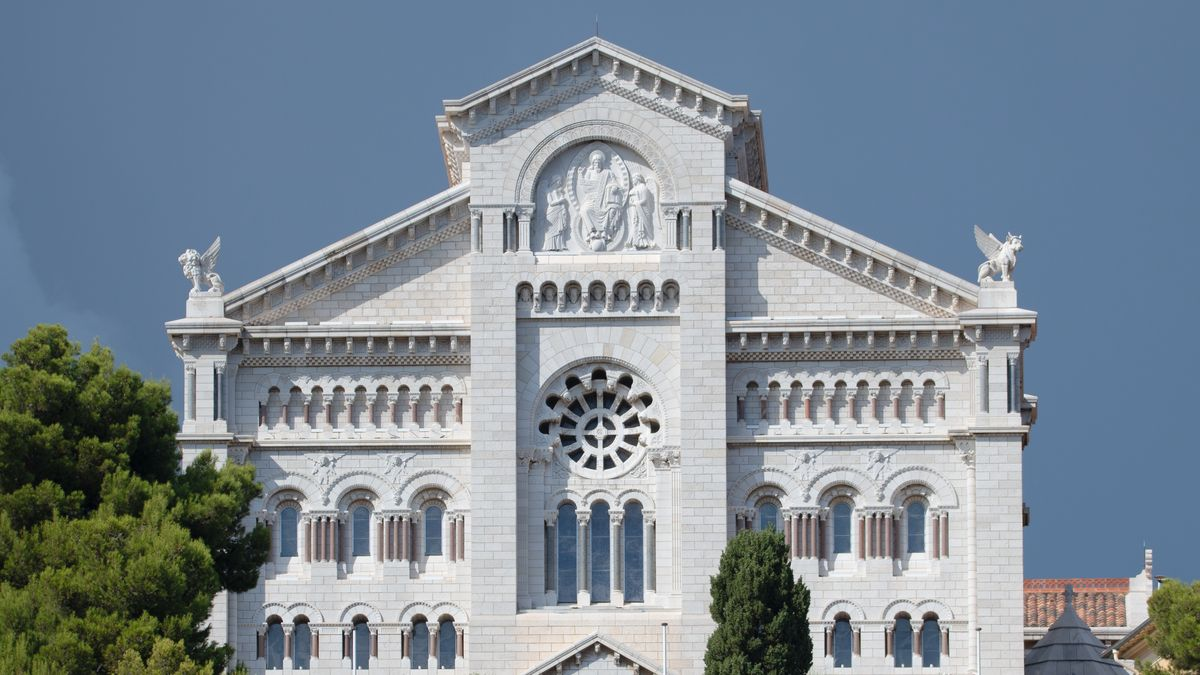
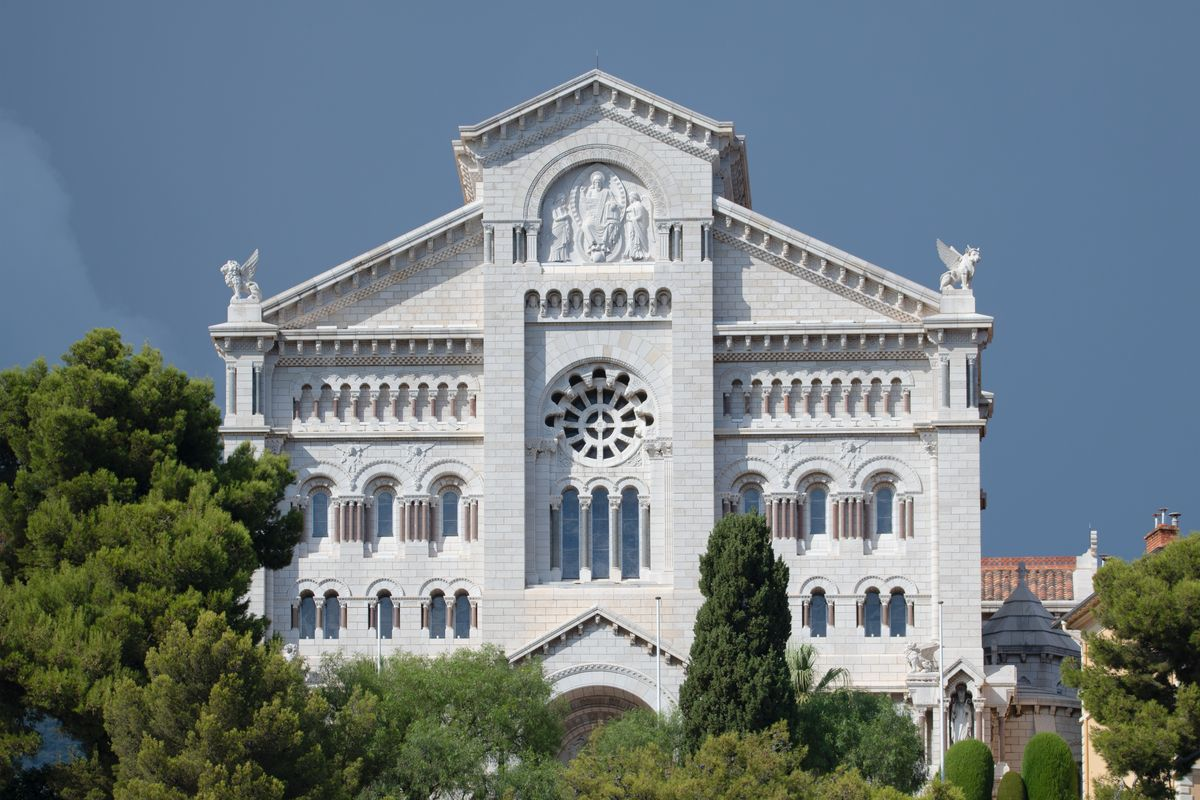
Add files via upload

diff --git a/extras.js b/extras.js
@@ -569,7 +569,7 @@
         "<h1>" + esc(t("Christmas in Monaco")) + '</h1><p class="lede-dark">' + esc(t("The Christmas village, the ice rink, the lights and New Year’s Eve, and the easy way between them.")) + "</p>" +
         (window.L && window.MMEMap ? '<div class="yt-map xm-map" id="xm-map" role="application" aria-label="' + esc(t("Map")) + '"></div>' : "") +
         '<ol class="wo-list xm-list">' + XMAS.map(function (x, i) {
-          return '<li class="wo-ev" data-xm="' + i + '">' + (x.photo ? '<img class="way-photo" src="' + x.photo + '" width="1200" height="675" loading="lazy" alt="' + esc(t("Monaco Cathedral, on the Rock")) + '">' : "") + '<span class="ev-date">' + esc(t(x.when)) + '</span><strong><span class="yt-num xm-num">' + (i + 1) + "</span>" + esc(t(x.name)) + "</strong>" +
+          return '<li class="wo-ev" data-xm="' + i + '">' + (x.photo ? '<img class="way-photo photo-full" src="' + x.photo + '" width="1200" height="800" loading="lazy" alt="' + esc(t("Monaco Cathedral, on the Rock")) + '">' : "") + '<span class="ev-date">' + esc(t(x.when)) + '</span><strong><span class="yt-num xm-num">' + (i + 1) + "</span>" + esc(t(x.name)) + "</strong>" +
             '<span class="wo-where">' + esc(x.where) + "</span><p>" + esc(t(x.what)) + (x.tip ? " " + esc(t(x.tip)) : "") + "</p>" +
             '<div class="wo-acts">' + goBtn(t(x.name), x.ll) + (x.route ? '<a class="btn-small" href="#/go/' + x.route + '">' + esc(t("See the lift route")) + "</a>" : "") + "</div></li>";
         }).join("") + "</ol>" +

diff --git a/sw.js b/sw.js
@@ -1,6 +1,6 @@
 // Keeps the app working with no signal: everything is saved on the phone the first time it opens.
 // Change VERSION whenever the app is updated so phones pick up the new files.
-var VERSION = "mme-preview-113";
+var VERSION = "mme-preview-114";
 var TILES = "mme-map-tiles";
 var FILES = [
   "./", "index.html", "styles.css", "i18n.js", "i18n-strings.js", "app.js", "data.js", "graph.js", "lifts-osm.js", "router.js", "bus.js", "border.js", "trains.js", "transit.js", "map.js", "survey.js", "planner.js", "extras.js", "essentials.js", "walks.js", "pro.js", "install.js", "weather.js", "guide-titles.js", "guide-data.js", "guide.js", "manifest.webmanifest",

diff --git a/styles.css b/styles.css
@@ -1160,3 +1160,5 @@ html.cjk .xmas-card strong { font-family: "PingFang SC", "Hiragino Mincho ProN",
 .bk-txt small { display: block; color: var(--grey); font-size: 14.5px; }
 #bk-near { margin-top: 8px; }
 .info-list .rank-go { margin-left: 6px; vertical-align: middle; }
+.way-photo.photo-full { aspect-ratio: 3 / 2; }
+.wk-photos img[src$="cathedral.jpg"] { object-position: center 70%; }
